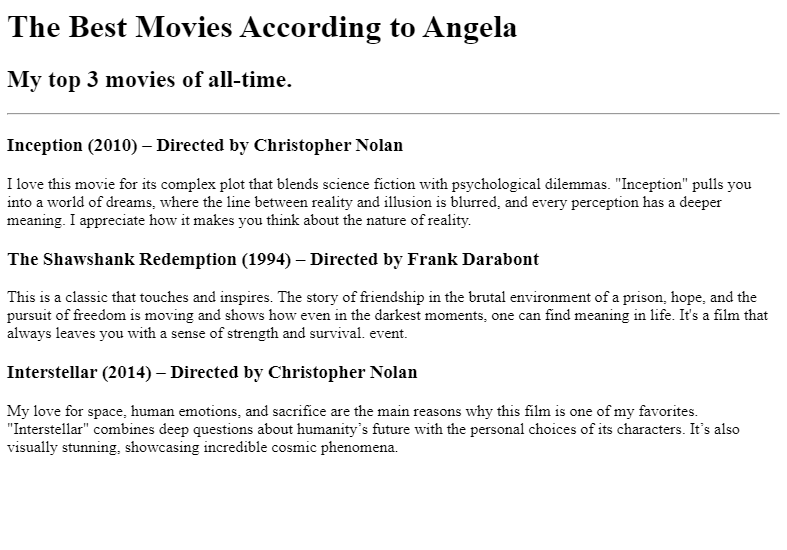
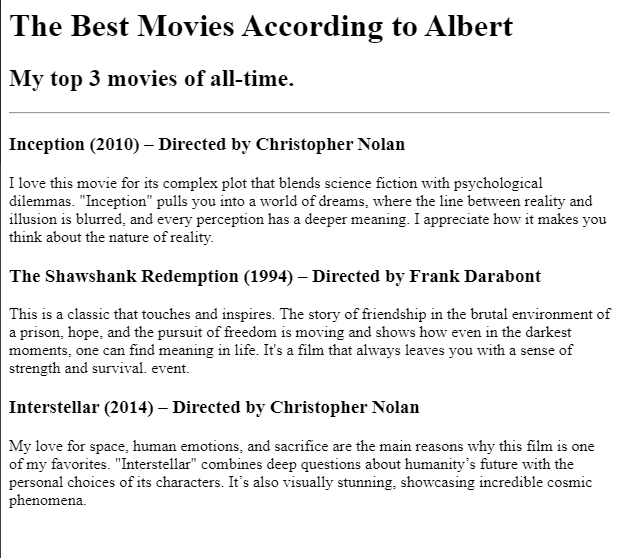
Add files via upload

diff --git a/public/movie-ranking.html b/public/movie-ranking.html
@@ -1,5 +1,5 @@
 <!-- Write your code below -->
-<h1>The Best Movies According to Angela</h1>
+<h1>The Best Movies According to Albert</h1>
 <h2>My top 3 movies of all-time.</h2>
 <hr />
 <h3>Inception (2010) – Directed by Christopher Nolan</h3>
